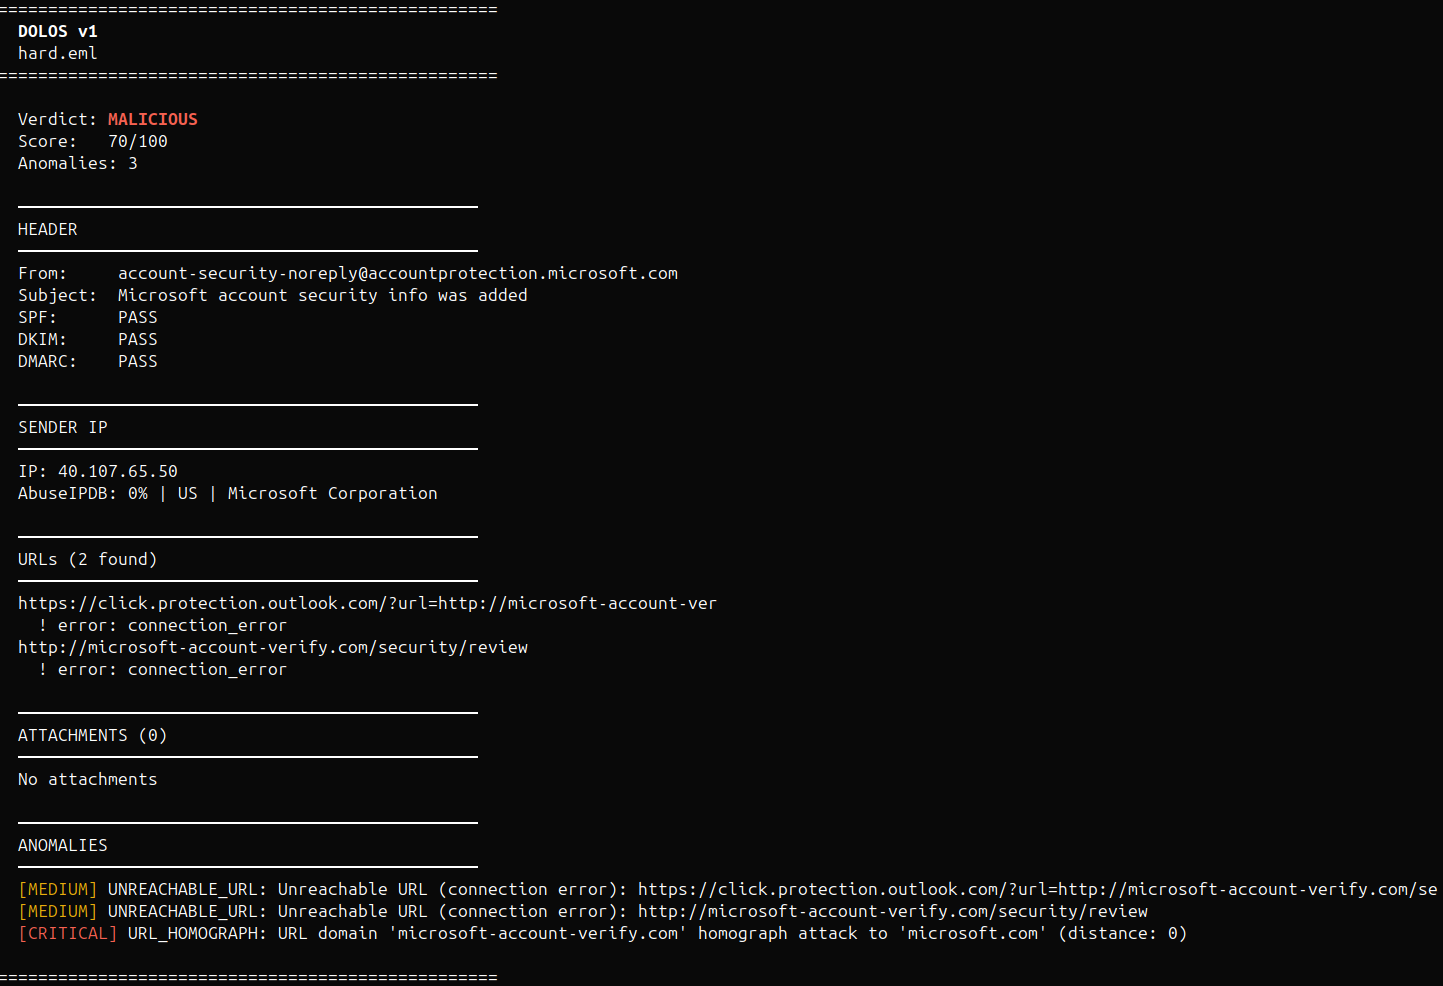
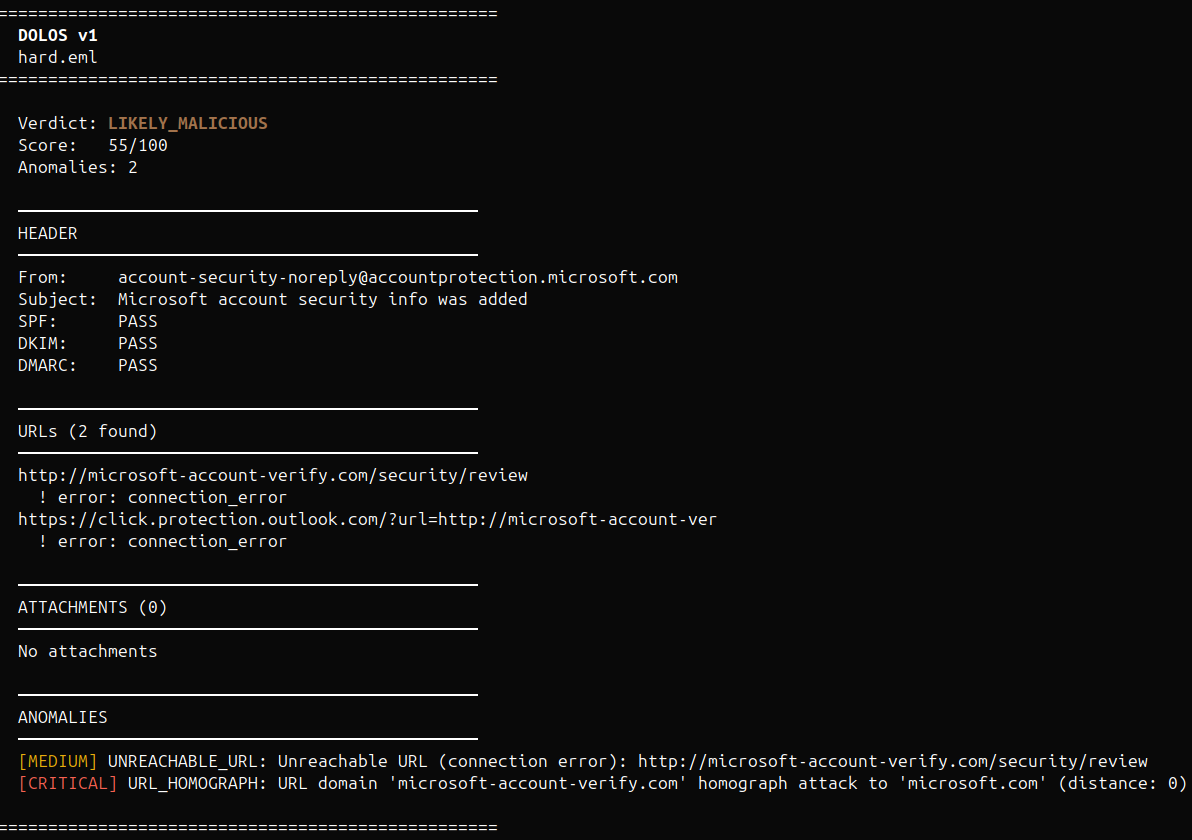
Avoid double-counting UNREACHABLE_URL for wrapper links

Changed region(s): [[0.0, 0.0, 1.0, 1.0], [0.5277, 0.619, 0.5587, 0.65]]

diff --git a/examples/hard_report.html b/examples/hard_report.html
@@ -26,7 +26,7 @@
             --fail:      #ef4444;
             --none:      #4a5568;
 
-            --verdict-color: #e74c3c;
+            --verdict-color: #e67e22;
         }
 
         * { box-sizing: border-box; margin: 0; padding: 0; }
@@ -107,7 +107,7 @@
             height: 4px;
             border-radius: 2px;
             background: var(--verdict-color);
-            width: 70%;
+            width: 55%;
             transition: width 0.6s ease;
         }
         .score-labels {
@@ -346,22 +346,22 @@
     <div class="page-header">
         <div>
             <div class="logo">DOLOS<span class="logo-sep">/</span>hard.eml</div>
-            <div class="page-meta">2026-10-25 17:41:35</div>
+            <div class="page-meta">2026-10-25 18:44:18</div>
         </div>
     </div>
 
     <!-- VERDICT -->
     <div class="verdict-card">
         <div class="verdict-top">
-            <div class="verdict-label">MALICIOUS</div>
-            <div class="verdict-count">3 anomalies · 70/100</div>
+            <div class="verdict-label">LIKELY_MALICIOUS</div>
+            <div class="verdict-count">2 anomalies · 55/100</div>
         </div>
         <div class="score-bar-wrap">
             <div class="score-bar"></div>
         </div>
         <div class="score-labels">
             <span>0</span>
-            <span class="score-num">70</span>
+            <span class="score-num">55</span>
             <span>100</span>
         </div>
     </div>
@@ -442,7 +442,7 @@
                 
             
             <div class="url-row">
-                <div class="url-original">https://click.protection.outlook.com/?url=http://mіcrosoft-account-verify.com/security/review&token=xK9zL2</div>
+                <div class="url-original">http://mіcrosoft-account-verify.com/security/review</div>
                 
                 
                 <div class="url-error">✗ connection_error</div>
@@ -465,7 +465,7 @@
                 
             
             <div class="url-row">
-                <div class="url-original">http://mіcrosoft-account-verify.com/security/review</div>
+                <div class="url-original">https://click.protection.outlook.com/?url=http://mіcrosoft-account-verify.com/security/review&token=xK9zL2</div>
                 
                 
                 <div class="url-error">✗ connection_error</div>
@@ -492,7 +492,7 @@
 
     <!-- ANOMALIES -->
     <div class="section">
-        <div class="section-title">Anomalies — 3</div>
+        <div class="section-title">Anomalies — 2</div>
         
             
             
@@ -513,17 +513,6 @@
                     <div class="anomaly-type">
                         <span class="sev-tag sev-medium">MEDIUM</span>UNREACHABLE_URL
                     </div>
-                    <div class="anomaly-desc">Unreachable URL (connection error): https://click.protection.outlook.com/?url=http://mіcrosoft-account-verify.com/se</div>
-                </div>
-                <div class="anomaly-score">+15</div>
-            </div>
-            
-            <div class="anomaly">
-                <div class="anomaly-bar medium"></div>
-                <div>
-                    <div class="anomaly-type">
-                        <span class="sev-tag sev-medium">MEDIUM</span>UNREACHABLE_URL
-                    </div>
                     <div class="anomaly-desc">Unreachable URL (connection error): http://mіcrosoft-account-verify.com/security/review</div>
                 </div>
                 <div class="anomaly-score">+15</div>
@@ -532,7 +521,7 @@
         
     </div>
 
-    <div class="footer">DOLOS PHISHING ANALYZER · 2026-10-25 17:41:35</div>
+    <div class="footer">DOLOS PHISHING ANALYZER · 2026-10-25 18:44:18</div>
 
 </div>
 </body>

diff --git a/analyzers/body_analyzer.py b/analyzers/body_analyzer.py
@@ -198,6 +198,9 @@ def _collect_anomalies(resolved_urls: list, keyword_results: dict) -> list:
     """
     anomalies = []
 
+    # URLs that could not be reached during resolution
+    unreachable = set(u["original"] for u in resolved_urls if u.get("error") == "connection_error")
+
     for url_data in resolved_urls:
         # Skip redirect if original domain is already known/trusted
         original_domain = url_data.get("domain", "")
@@ -229,13 +232,16 @@ def _collect_anomalies(resolved_urls: list, keyword_results: dict) -> list:
             })
             
         # Unreachable URL (connection error during resolution)
-        if url_data.get("error") == "connection_error":
-            anomalies.append({
-                "type": "UNREACHABLE_URL",
-                "description": f"Unreachable URL (connection error): {url_data['original'][:80]}",
-                "severity": "medium",
-                "score": 15,
-            })
+        if url_data["original"] in unreachable:
+            embedded = _extract_urls_from_params(url_data["original"])
+            # wrapper link: skip if its destination is already flagged
+            if not any(e in unreachable for e in embedded):
+                anomalies.append({
+                    "type": "UNREACHABLE_URL",
+                    "description": f"Unreachable URL (connection error): {url_data['original'][:80]}",
+                    "severity": "medium",
+                    "score": 15,
+                })
         
         # Homograph / typosquatting check on URL domain
         final_domain = url_data.get("final_domain") or original_domain

diff --git a/README.md b/README.md
@@ -27,7 +27,7 @@ Each analyzer produces a list of anomalies with associated weights. The scorer a
 ### Header Analysis
 - [SPF](https://datatracker.ietf.org/doc/html/rfc7208) / [DKIM](https://datatracker.ietf.org/doc/html/rfc6376) / [DMARC](https://datatracker.ietf.org/doc/html/rfc7489) result parsing
 - Typosquatting detection via [Levenshtein distance](https://en.wikipedia.org/wiki/Levenshtein_distance) with deceptive suffix stripping (`-secure`, `-login`, `-notifications`, etc.)
-- [Homograph attack](https://en.wikipedia.org/wiki/IDN_homograph_attack) detection — Cyrillic and lookalike Unicode characters via Cyrillic homoglyph mapping
+- [Homograph attack](https://en.wikipedia.org/wiki/IDN_homograph_attack) detection — Cyrillic lookalike characters (e.g. `а`, `о`, `і`) mapped to their Latin equivalents before brand comparison
 - Reply-To lookalike detection — flags when Reply-To domain is a typosquatted variant of the sender domain
 - Received chain parsing with private IP filtering ([RFC 1918](https://datatracker.ietf.org/doc/html/rfc1918))
 
@@ -138,11 +138,11 @@ Sender domain `paypa1-secure.com` is flagged as typosquatting of `paypal.com` (L
 
 ---
 
-### Evasion attempt — `MALICIOUS` · Score: 70/100
+### Evasion attempt — `LIKELY_MALICIOUS` · Score: 55/100
 
 Sender: `account-security-noreply@accountprotection.microsoft.com`. SPF/DKIM/DMARC all pass, IP belongs to Microsoft. No phishing keywords, no suspicious attachments.
 
-The only signal: the link href contains `http://mіcrosoft-account-verify.com` — where `і` is Cyrillic [U+0456](https://www.compart.com/en/unicode/U+0456), visually identical to the Latin `i`. Dolos detects the [IDN homograph attack](https://en.wikipedia.org/wiki/IDN_homograph_attack) via Unicode normalization.
+The link is wrapped in a Safe Links–style redirect, but the real destination is `http://mіcrosoft-account-verify.com` — where `і` is Cyrillic [U+0456](https://www.compart.com/en/unicode/U+0456), visually identical to the Latin `i`. Dolos extracts the embedded URL from the `?url=` parameter and detects the [IDN homograph attack](https://en.wikipedia.org/wiki/IDN_homograph_attack) via Cyrillic homoglyph mapping. The destination domain does not resolve, which adds an `UNREACHABLE_URL` signal.
 
 ![hard](docs/hard.png)
 
